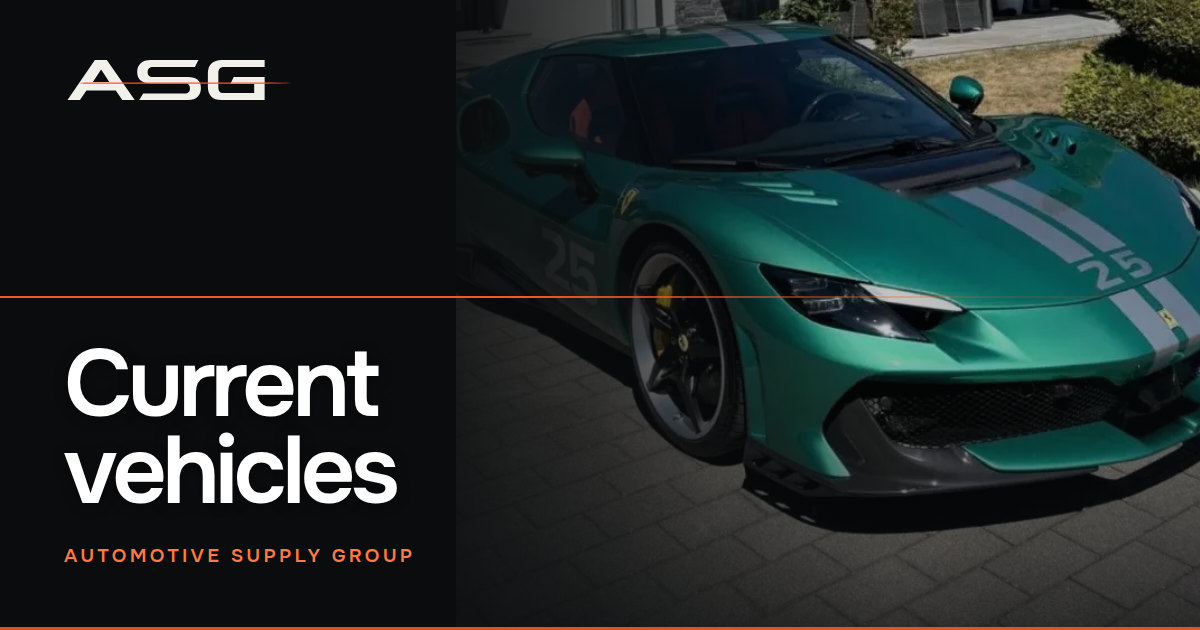
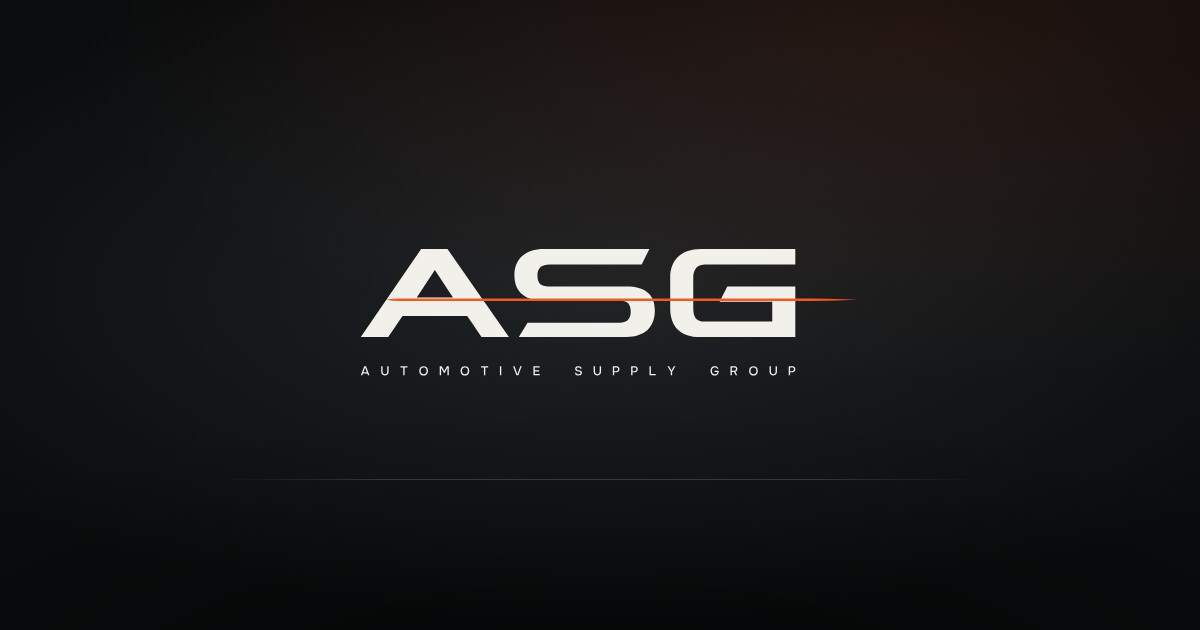
Make the catalogue preview the mark, not a car
The shelf has no lead vehicle, and whichever one the preview showed would
misrepresent it the moment the stock changed. The card is now the real vector
lockup with its descriptor on the house ground: exactly 1200x630, JPEG, 38 kB,
with og:image:width and og:image:height already declared in the template —
without those WhatsApp shows a thumbnail instead of a card.

The lockup sits at 47% of the frame width, centred, so a messenger's crop
cannot touch it.

Claude-Session: https://claude.ai/code/session_01LzLfSd7oL8VTCB4WAnLsn5

diff --git a/tools/share-card.html b/tools/share-card.html
@@ -3,39 +3,50 @@
 <head>
 <meta charset="utf-8">
 <title>Catalogue share card — build tool</title>
+<!-- Source for the catalogue's share.jpg. Build tool, not a published page: it
+     lives in tools/ so the web root never serves it. Capture #card at exactly
+     1200x630 and save it as share.jpg at the repository root.
+
+     Both messengers are satisfied by the same file: exactly 1200x630 (1.91:1),
+     JPEG, well under 300 kB, with og:image:width / og:image:height declared in
+     the page head — without those WhatsApp falls back to a small square
+     thumbnail. Telegram is looser but reads the same tags.
+
+     The mark is the real vector lockup, with its descriptor, on the house
+     ground. Nothing here dates: no vehicle, no count, no date. The catalogue
+     URL never changes, and messengers cache a preview per URL forever. -->
 <style>
 @font-face{font-family:Onest;src:url("../assets/Onest.ttf") format("truetype");font-weight:100 900;font-display:block}
 *{margin:0;padding:0;box-sizing:border-box}
 html,body{background:#15181a}
 body{display:flex;flex-direction:column;align-items:flex-start;gap:24px;padding:24px;font-family:Onest,system-ui,sans-serif}
-.card{position:relative;width:1200px;height:630px;overflow:hidden;background:#0a0c0d;color:#fff;isolation:isolate;flex:none}
-.strip{position:absolute;z-index:-3;inset:0 0 0 38%}
-.strip img{width:100%;height:100%;object-fit:cover;filter:saturate(.92) contrast(1.045) brightness(.965)}
-.veil{position:absolute;inset:0;z-index:-2;background:linear-gradient(90deg,#0a0c0d 0%,rgba(10,12,13,.96) 34%,rgba(10,12,13,.74) 50%,rgba(10,12,13,.22) 74%,rgba(10,12,13,.34) 100%),linear-gradient(0deg,rgba(10,12,13,.72) 0%,rgba(10,12,13,0) 46%)}
-.signal{position:absolute;z-index:-1;left:0;right:0;top:47%;height:2px;background:linear-gradient(90deg,#F15A24 0,#F15A24 44%,rgba(241,90,36,.22) 78%,transparent 100%)}
-.lockup{position:absolute;left:64px;top:56px;width:236px;height:auto}
-.copy{position:absolute;left:64px;right:64px;bottom:62px}
-h1{font-size:96px;font-weight:600;line-height:.9;letter-spacing:-.05em;text-shadow:0 2px 14px rgba(0,0,0,.36)}
-h1 span{display:block}
-.meta{margin-top:30px;font-size:19px;font-weight:600;letter-spacing:.17em;text-transform:uppercase;color:#FF7A45}
-.coach{position:absolute;left:0;right:0;bottom:0;height:3px;background:#F15A24;opacity:.9}
-.hint{font-size:12px;letter-spacing:.14em;text-transform:uppercase;color:#7d8285;max-width:1200px;line-height:1.7}
+
+.card{position:relative;width:1200px;height:630px;overflow:hidden;background:#0a0c0d;flex:none;
+      display:grid;place-items:center}
+
+/* One diffused source from the upper right, and a floor that falls away —
+   the same low-key lighting the offer heroes use. */
+.card::before{content:"";position:absolute;inset:0;
+  background:radial-gradient(120% 95% at 76% 6%, rgba(241,90,36,0.10), transparent 58%),
+             radial-gradient(100% 80% at 50% 46%, rgba(70,78,84,0.34), transparent 66%),
+             radial-gradient(120% 90% at 50% 118%, rgba(0,0,0,0.65), transparent 62%)}
+
+/* The lockup sits at 47% of the frame width, centred — comfortably inside the
+   safe area, so a messenger's crop never touches it. */
+.lockup{position:relative;width:564px;height:auto;display:block}
+
+/* A hairline that stops short of the edges, to seat the mark on the ground
+   rather than float it. */
+.card::after{content:"";position:absolute;left:18%;right:18%;top:76%;height:1px;
+  background:linear-gradient(90deg,transparent 0,rgba(242,240,235,0.16) 22%,rgba(242,240,235,0.16) 78%,transparent 100%)}
+
+.hint{max-width:1200px;color:#7d8285;font-size:12px;line-height:1.7;letter-spacing:.06em}
 </style>
 </head>
 <body>
 <div class="card" id="card">
-  <div class="strip">
-    <img src="../assets/media/wbqmga.webp" alt="">
-  </div>
-  <div class="veil"></div>
-  <div class="signal"></div>
-  <img class="lockup" src="../assets/brand/asg-lockup-mark.svg" alt="">
-  <div class="copy">
-    <h1><span>Current</span><span>vehicles</span></h1>
-    <p class="meta">Automotive Supply Group</p>
-  </div>
-  <div class="coach"></div>
+  <img class="lockup" src="../assets/brand/asg-lockup-dark.svg" alt="">
 </div>
-<p class="hint">Build tool, not a published page — it lives in tools/ so the web root never serves it. Set the lead photograph, capture #card at exactly 1200×630 and save it as share.jpg at the repository root. The vehicle count and the date deliberately do not appear on this card: messengers cache a preview per URL, the catalogue URL never changes, and a number baked in here would keep claiming a stock we no longer have.</p>
+<p class="hint">Build tool — capture #card at exactly 1200×630, save as share.jpg at the repository root, JPEG under 300 kB. No vehicle, no count, no date: the catalogue URL never changes and messengers cache a preview per URL for weeks.</p>
 </body>
 </html>

diff --git a/AGENTS.md b/AGENTS.md
@@ -187,8 +187,12 @@ CLAUDE.md                      — подключает AGENTS.md для Claude 
 - `images` — если hero оффера плохо читается карточкой, здесь можно указать
   другой файл **внутри папки оффера** (путь относительно `/o/<slug>/`).
 
-Превью ссылки каталога — `share.jpg` (1200×630), исходник в
-`tools/share-card.html`. **Счётчика машин и даты на карточке нет намеренно:**
+Превью ссылки каталога — `share.jpg` (1200×630, JPEG, до 300 КБ): **знак ASG
+с подписью, вектором, на фирменном фоне. Без машины.** У витрины нет «главной»
+машины, а любая конкретная устареет; знак — нет. Исходник —
+`tools/share-card.html`, рендерить ровно 1200×630.
+
+**Счётчика машин и даты на карточке нет намеренно:**
 мессенджеры кешируют превью по URL, URL каталога не меняется никогда, и любое
 число, вшитое в картинку, через неделю будет врать.
 
